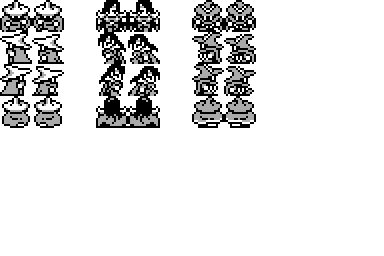
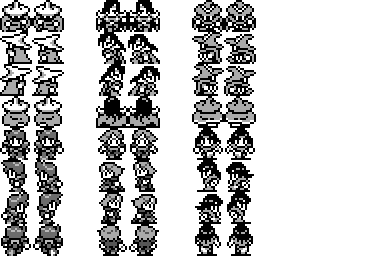
Actor updated (Heroes) and intro

Changed region(s): [[0.0, 0.5, 0.1875, 1.0], [0.5, 0.5, 0.6875, 1.0], [0.25, 0.5, 0.4062, 1.0]]

diff --git a/RKH - Game/RKH - Game_Battler.rb b/RKH - Game/RKH - Game_Battler.rb
@@ -179,7 +179,7 @@ class Game_Battler < Game_BattlerBase
     end
     value -= 4 if user.dual_wield? # && !passiv.dual_wield
     value += state_bonuses(user, "DMG")
-    value += armors[0].def if !armors.empty?
+    #value += armors[0].def if !armors.empty?
     value = [value, 1].max
     @result.make_damage(value.to_i, item)
   end
